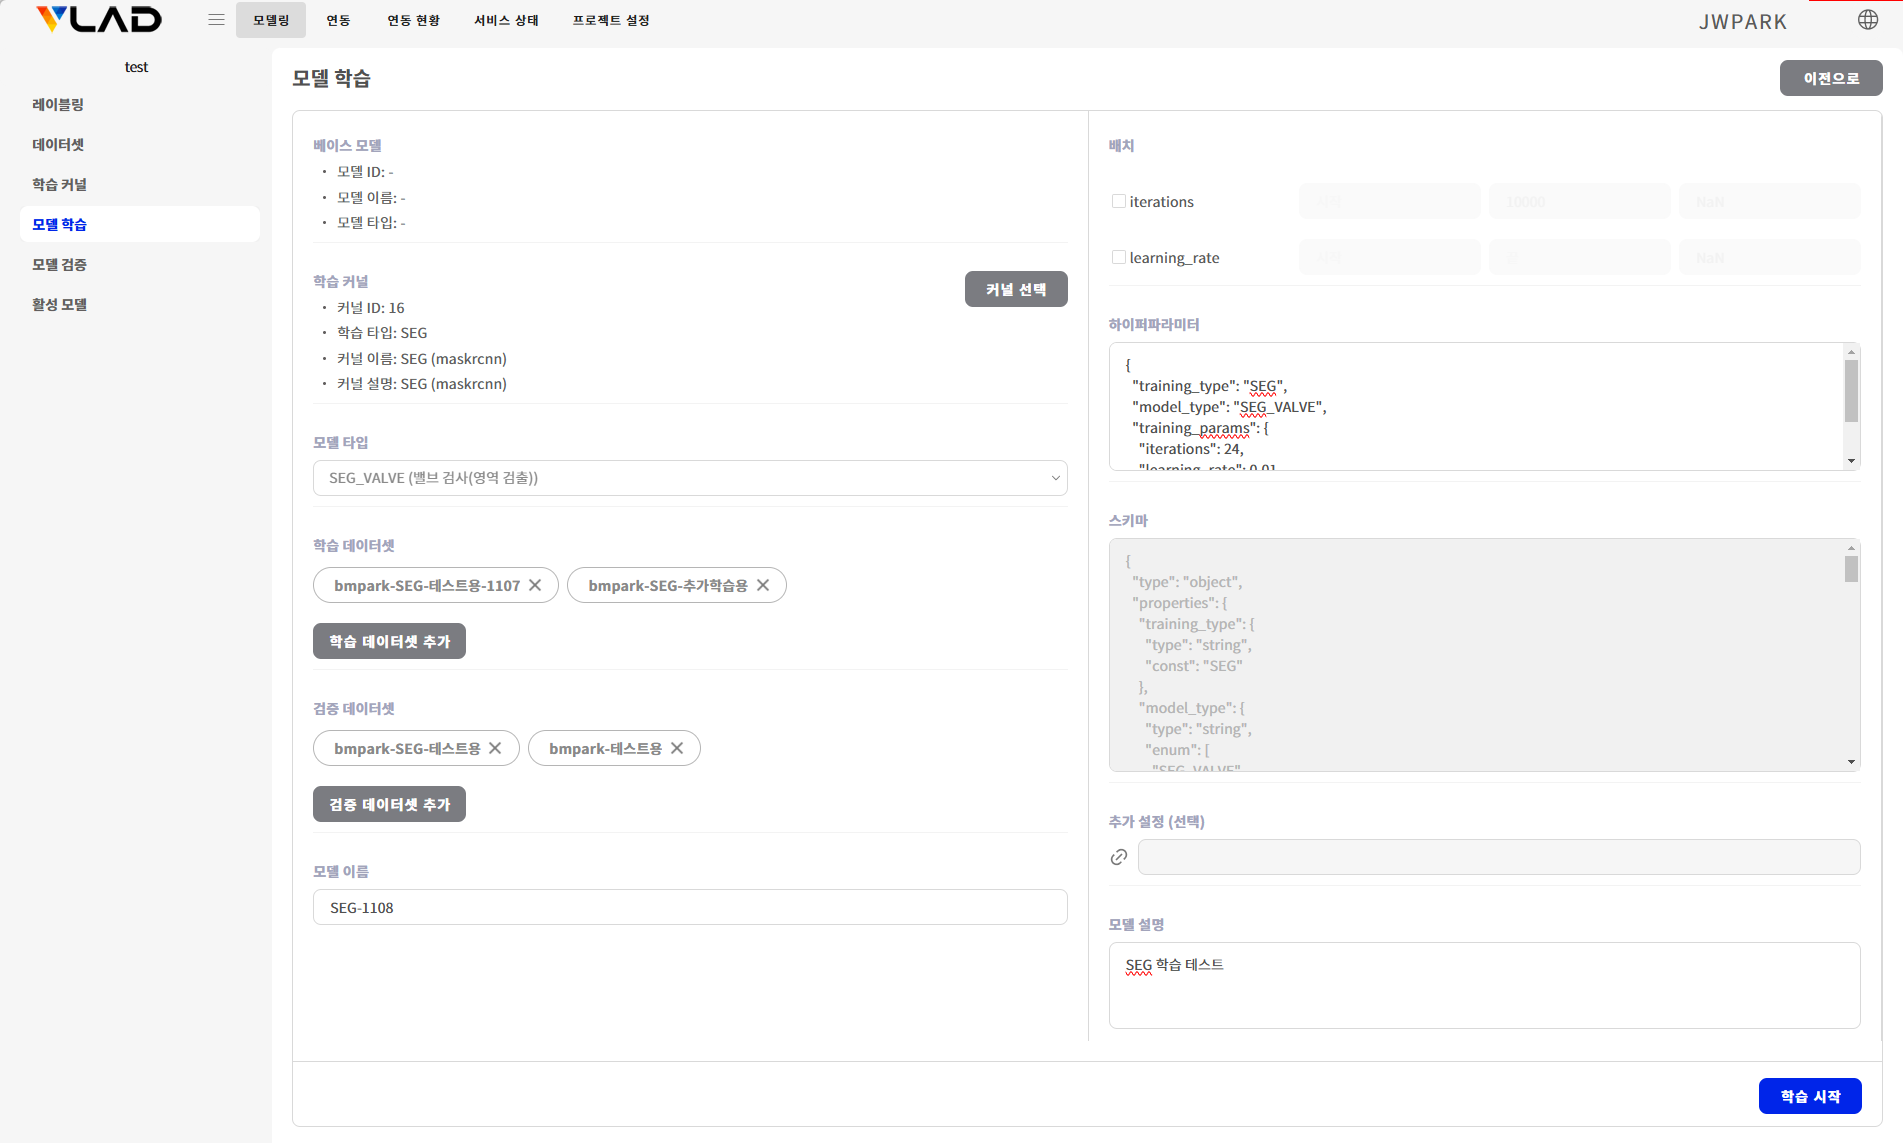
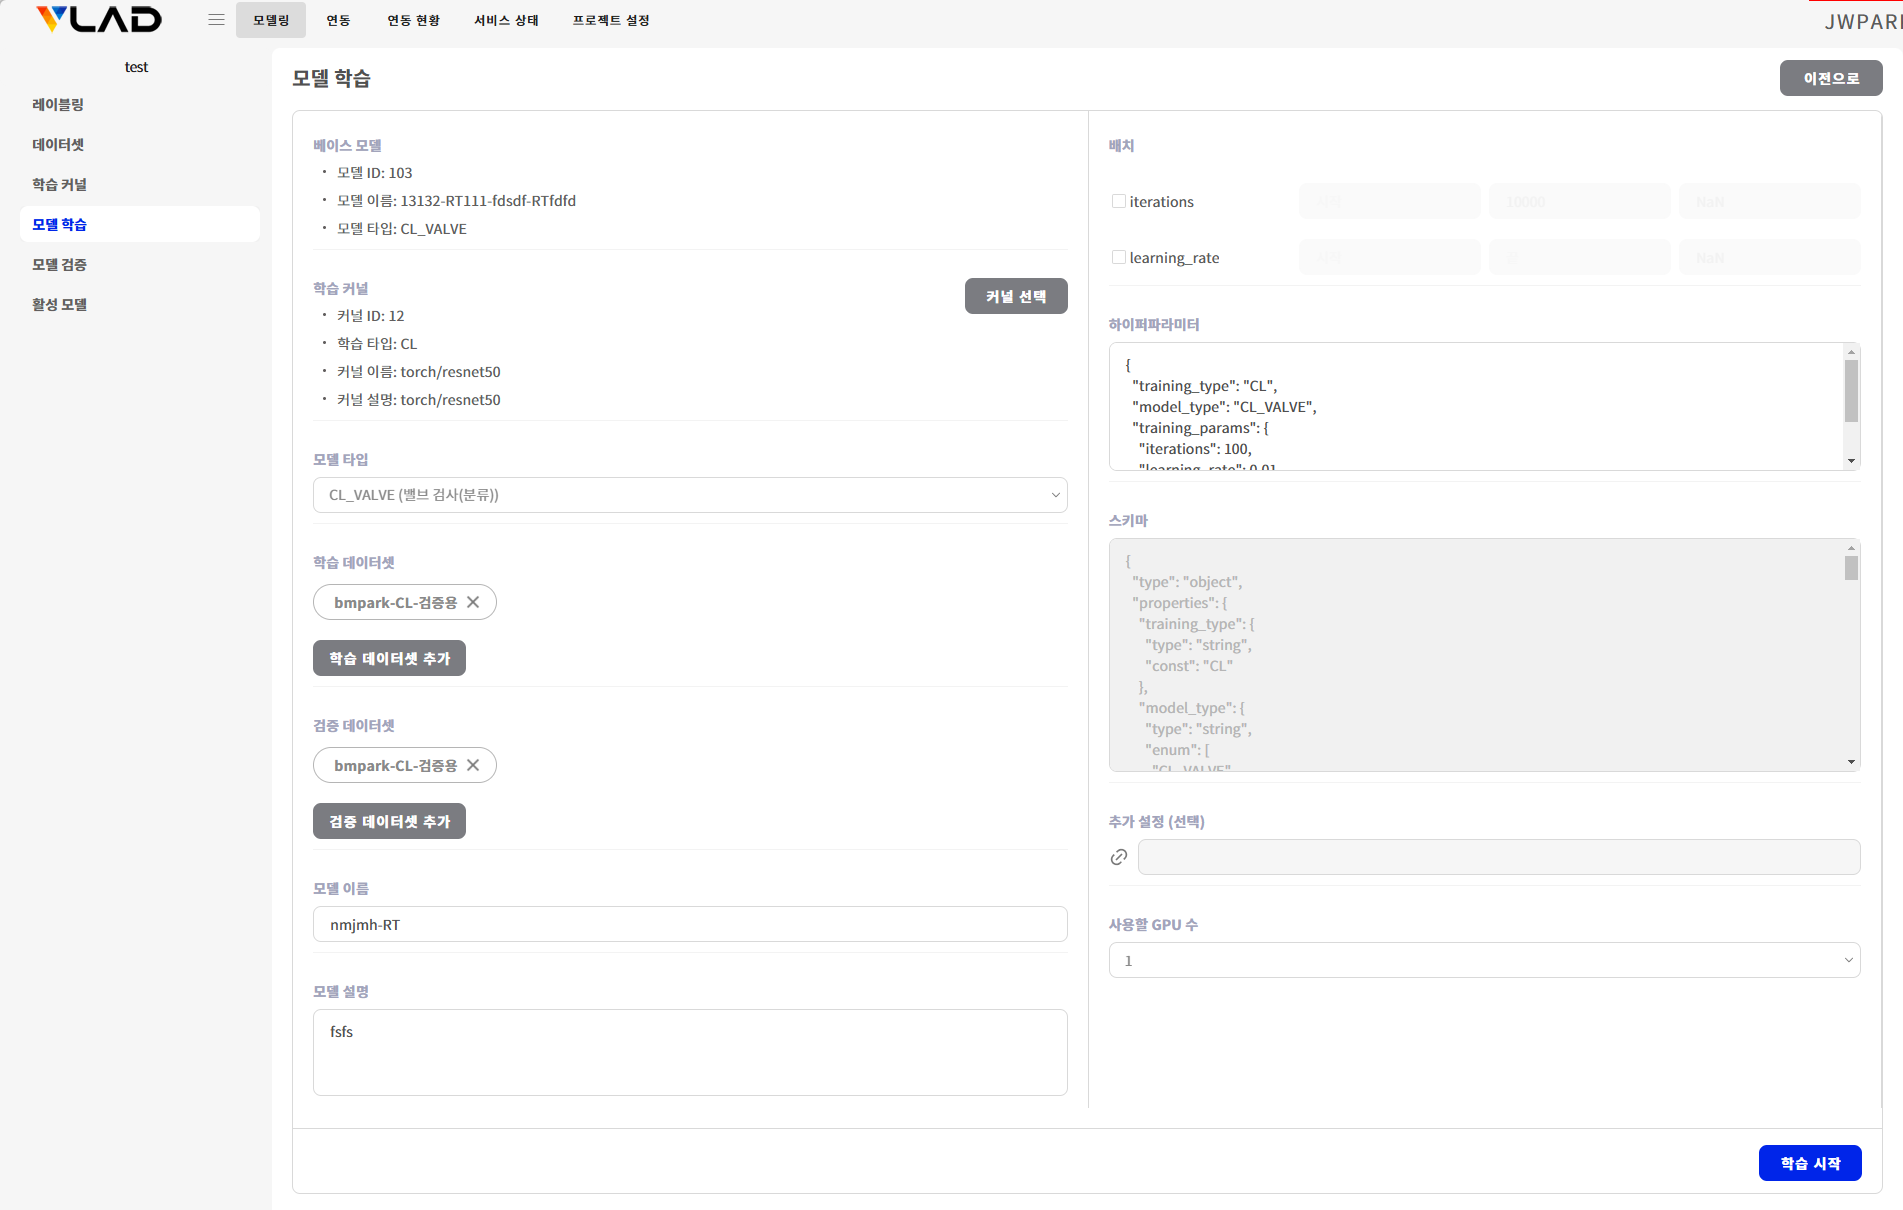
모델 학습 관리 페이지 수정

diff --git a/docs/ko/guide/training-model-training.md b/docs/ko/guide/training-model-training.md
@@ -48,11 +48,12 @@ outline: deep
   ::: info
   편의를 위해 자동 생성되는 이름을 제공하지만, 모델의 명확한 관리를 위해 학습의 목적이 표현되는 이름으로 작성하는 것이 좋습니다.
   :::
+- 모델 설명  
+  모델에 대한 추가 설명을 입력합니다.
 - 배치  
   배치 학습을 설정할 수 있습니다.
 - 하이퍼 파라미터  
   학습 모델 설정값을 표시합니다.
-  
   ::: info 하이퍼 파라미터 수정
   모델 타입을 선택하면 해당 타입의 기본 설정값이 하이퍼 파라미터에 표시되고,  
   오류가 있는 경우 안내 메시지가 표시됩니다.  
@@ -63,8 +64,11 @@ outline: deep
   학습 모델 구성 정보를 표시합니다.
 - 추가 설정 (선택)  
   커널에 전달할 파일을 선택할 수 있습니다.
-- 모델 설명  
-  모델에 대한 추가 설명을 입력합니다.
+- 사용할 GPU 수  
+  학습에 사용할 GPU 수를 선택합니다.
+  ::: warning GPU 수
+  스키마의 supported_gpu_count에 설정된 minimum/maximum 값이 없는 경우는 1 로 고정됩니다.
+  :::
 - 학습 시작  
   버튼을 클릭하면 학습이 시작됩니다.
 
